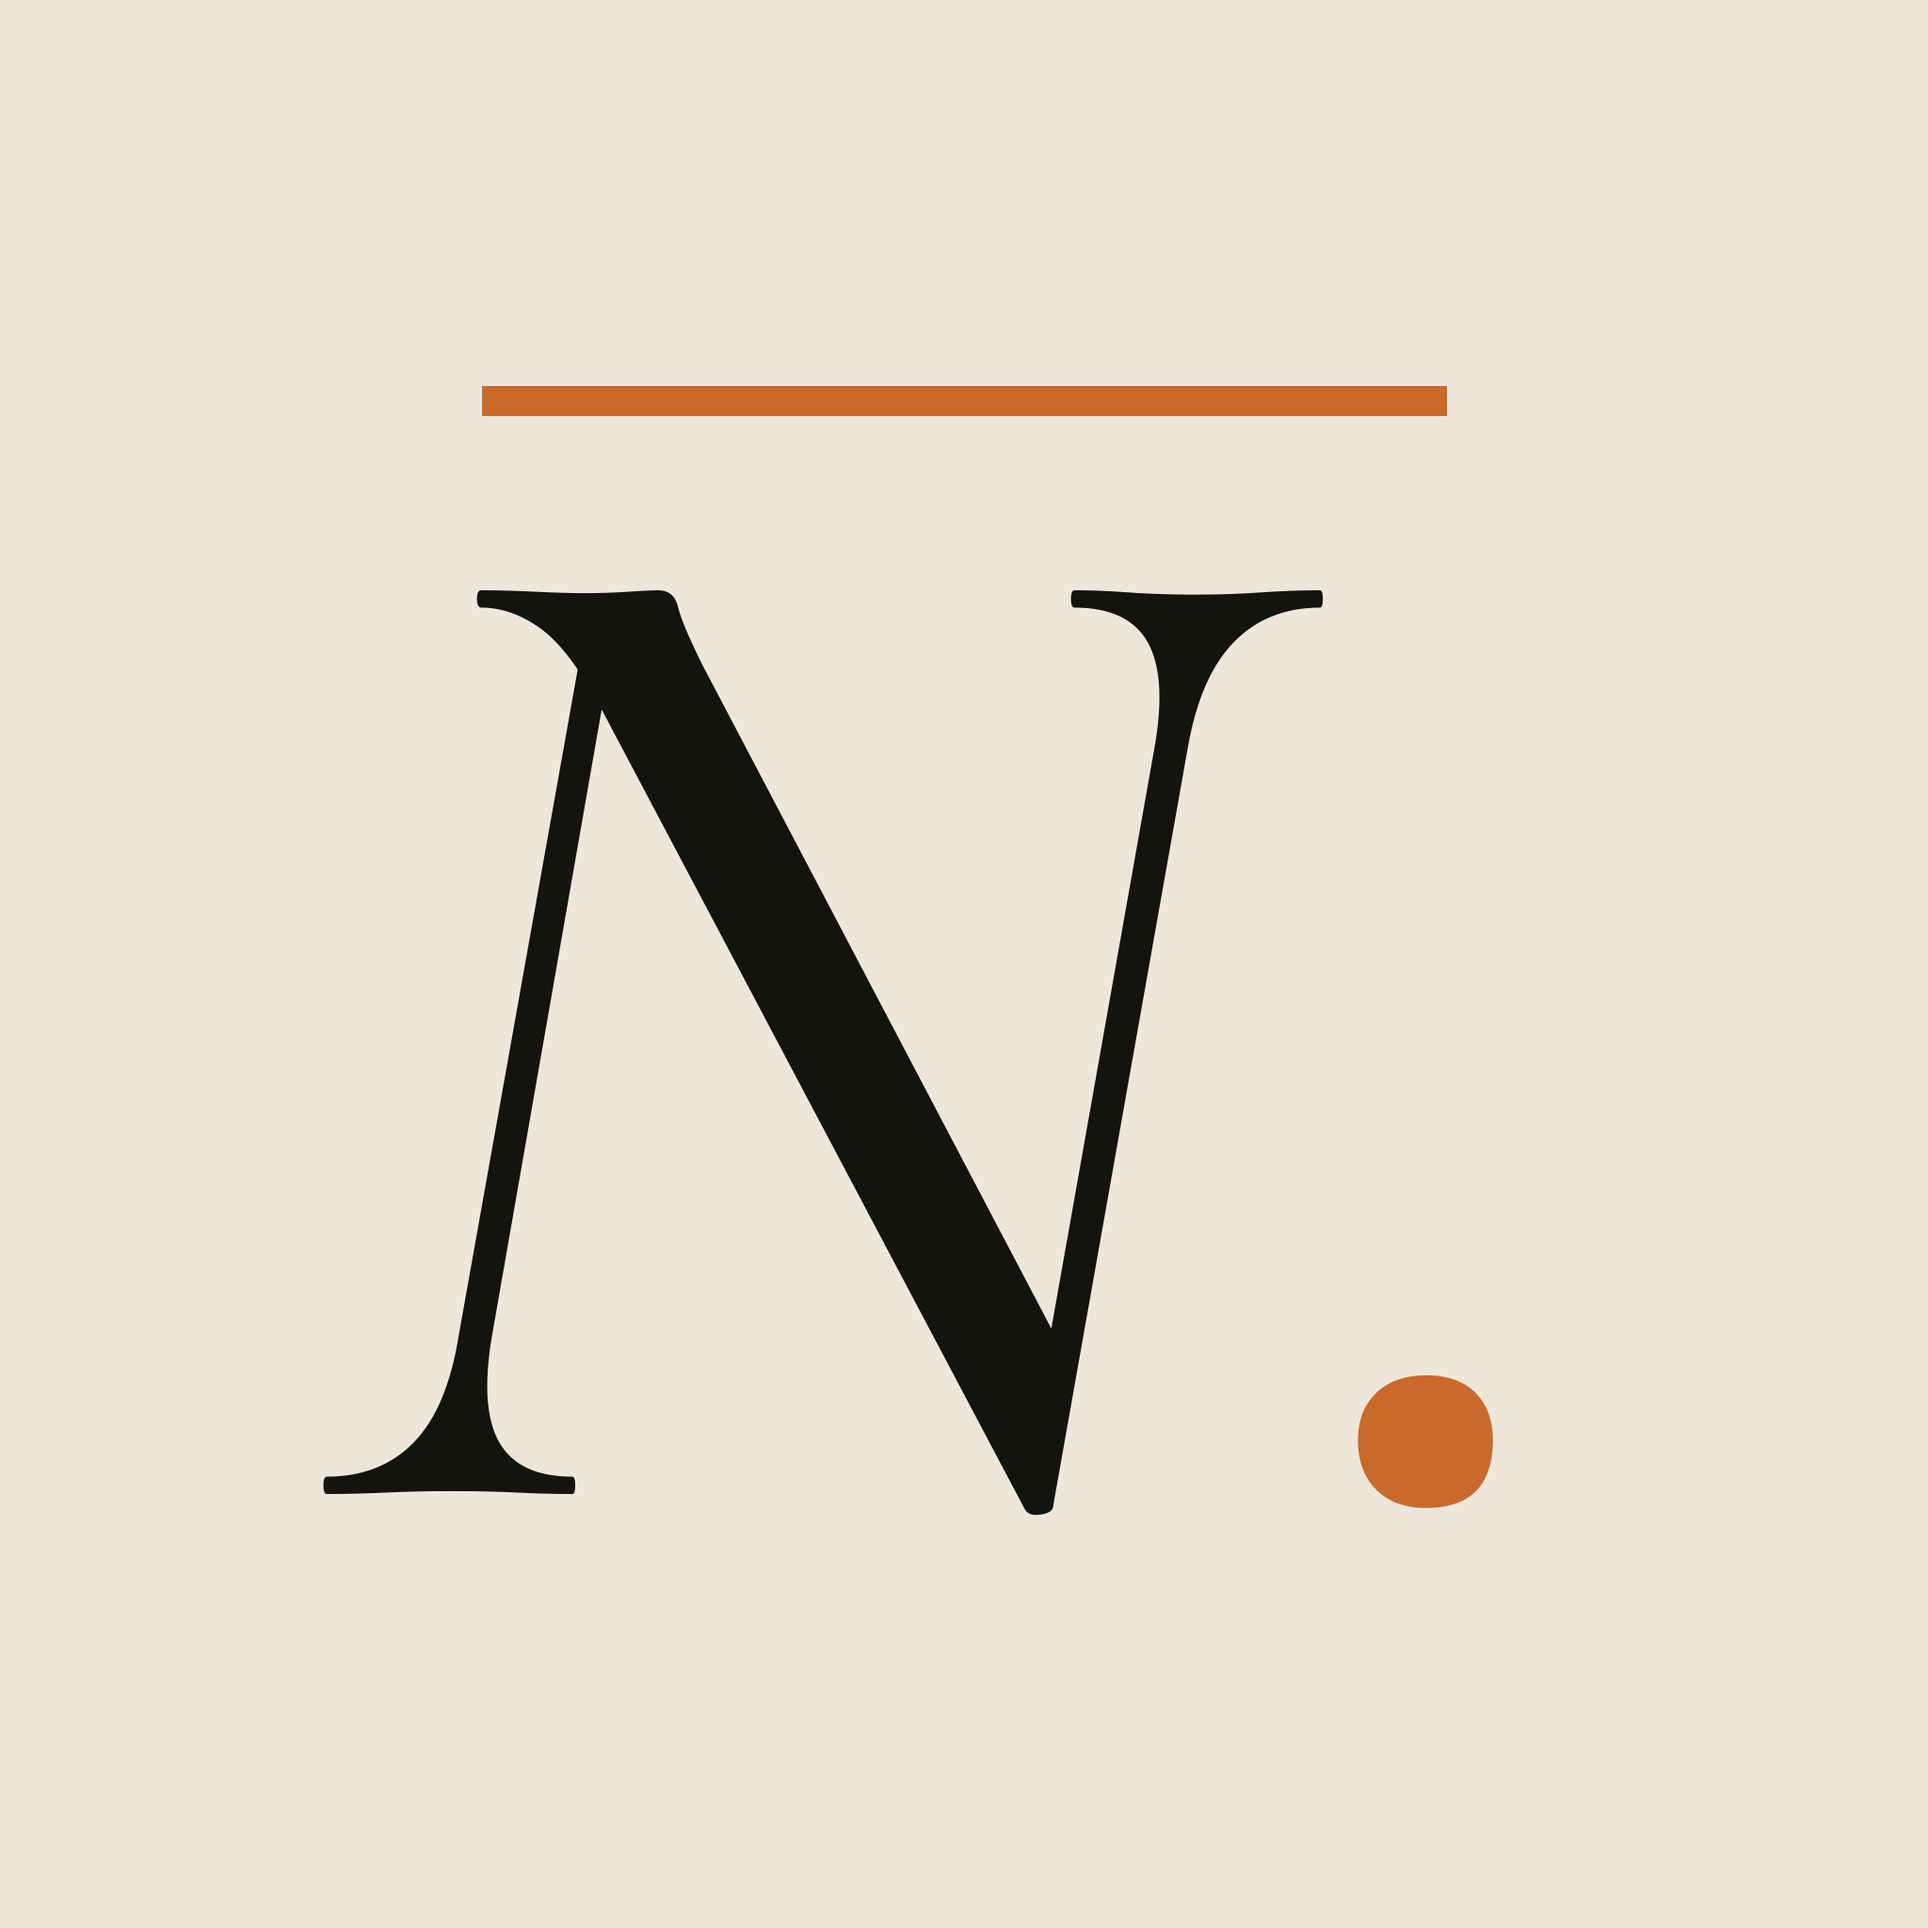
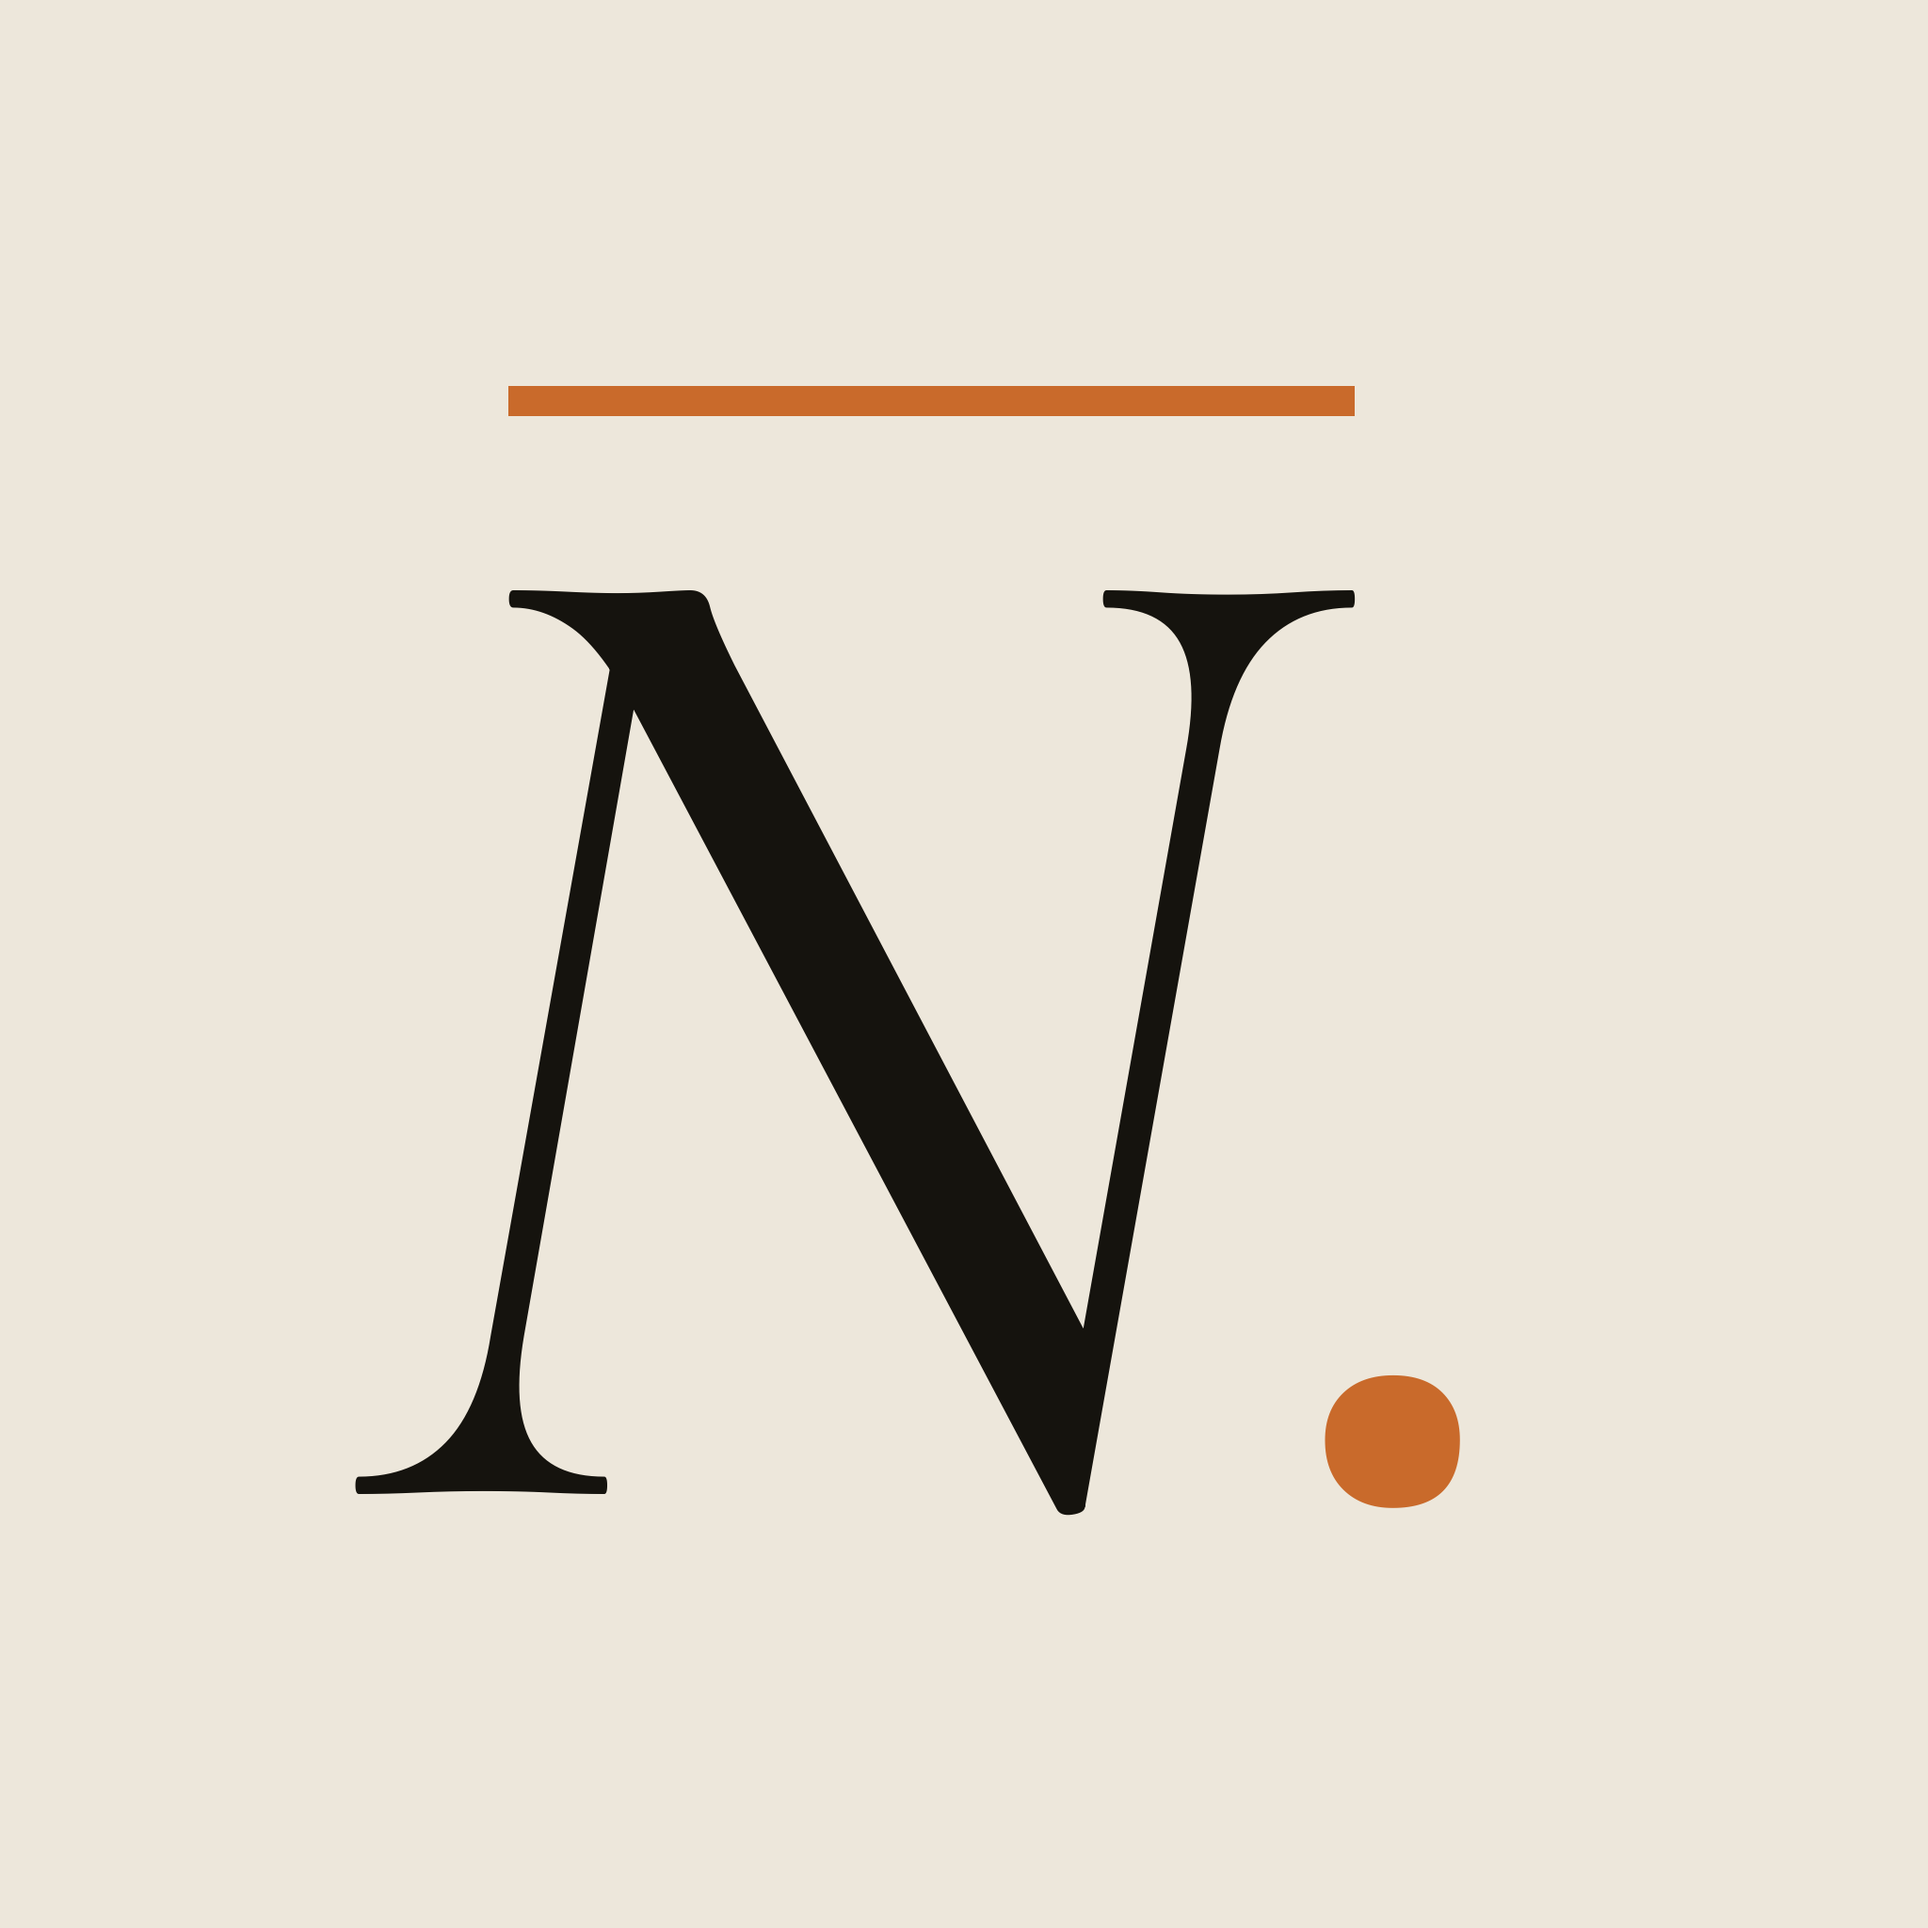
Fix monogram bar to match the N's cap-line width
The amber bar on top of the N. monogram was sized and positioned
using the full "N." bbox, which made it look visually too long.
Italic serif Ns fan out wide at the bottom serifs (due to the italic
lean) but stay narrow at the top where the bar sits, so the bar
overshot the N's visual top edge.

Now the bar matches the N's cap-line (top visual extent) instead:
- width = 58.5% of font-size (measured empirically by rendering the
  glyph and scanning the top 18% of cap-height pixels)
- left offset = 11.1% of font-size from the N's draw origin

The period now sits cleanly below-and-right of the bar's right edge
as a trailing element. Applied everywhere the monogram renders:
  - public/monogram.svg (x=105, width=175 on 400-canvas)
  - public/monogram.png (regenerated at 2048x2048)
  - app/icon.svg (x=15, width=31.5 on 64-canvas)
  - app/favicon.ico (regenerated, now measures cap-line empirically
    for the Georgia Bold Italic variant used in the ICO)
  - app/components/Logo.tsx (ratios applied to size prop)
  - brand.html .monogram-mark::before (13% / 68.7% relative to
    the containing "N." inline-block)

diff --git a/app/components/Logo.tsx b/app/components/Logo.tsx
@@ -63,6 +63,12 @@ export default function Logo({
 
   if (variant === "monogram") {
     const px = size ?? 120;
+    // The bar is sized and positioned to match the italic N's cap-line
+    // (its visual top edge), not the full ink bbox. Italic serif Ns fan
+    // out at the bottom serifs but stay narrow at the top where the bar
+    // sits. Values measured empirically from Cormorant Garamond Italic
+    // Medium: cap-line width ≈ 58.5% of font-size, cap-line left offset
+    // ≈ 11.1% of font-size from the glyph's draw origin.
     return (
       <span
         aria-label="The Narrative Company"
@@ -80,8 +86,8 @@ export default function Logo({
           style={{
             position: "absolute",
             top: 0,
-            left: 0,
-            width: px * 0.62,
+            left: px * 0.111,
+            width: px * 0.585,
             height: 1,
             background: barColor,
           }}
@@ -89,7 +95,7 @@ export default function Logo({
         <span
           style={{
             fontFamily: "'Cormorant Garamond', serif",
-            fontWeight: 400,
+            fontWeight: 500,
             fontStyle: "italic",
             fontSize: px,
             lineHeight: 0.9,

diff --git a/brand.html b/brand.html
@@ -264,11 +264,14 @@
         }
 
         .monogram-mark::before {
+            /* Bar matches the italic N's cap-line (visual top) extent,
+               not the full "N." bbox. Italic serif Ns fan out wide at the
+               bottom but stay narrow at the top where the bar sits. */
             content: '';
             position: absolute;
             top: 0;
-            left: 0;
-            width: 62%;
+            left: 13%;
+            width: 68.7%;
             height: 1px;
         }
 
